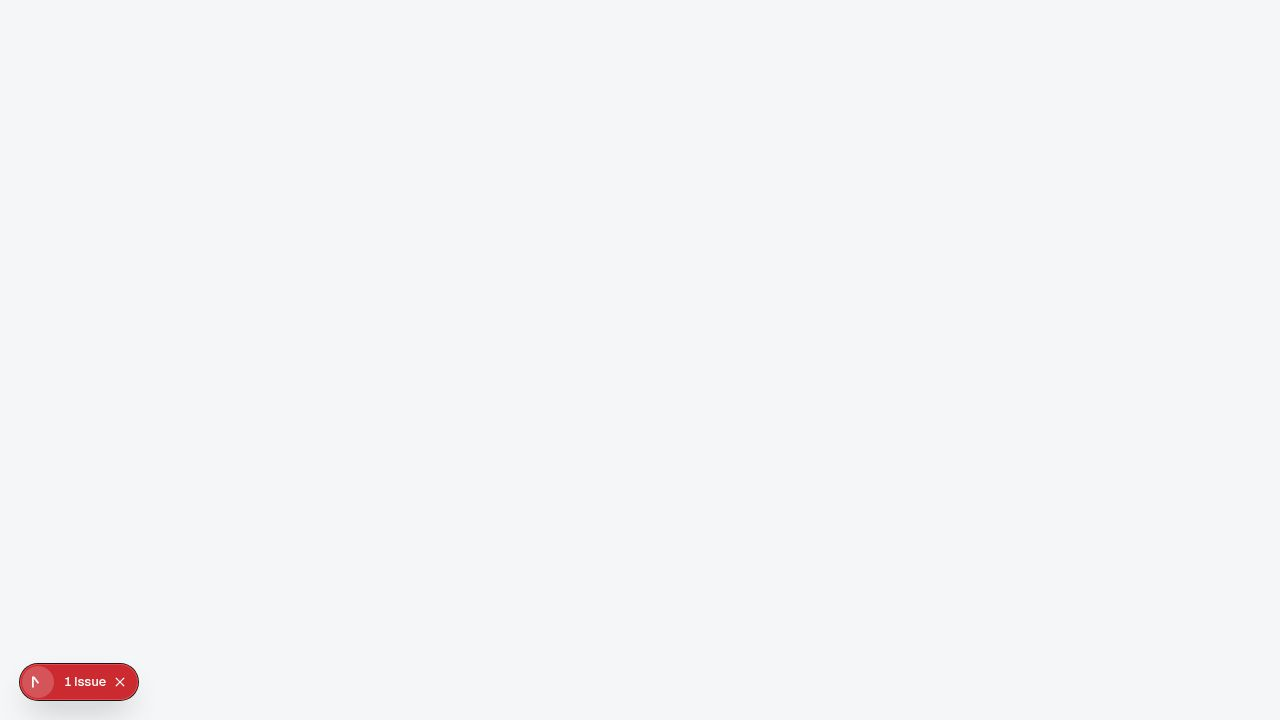
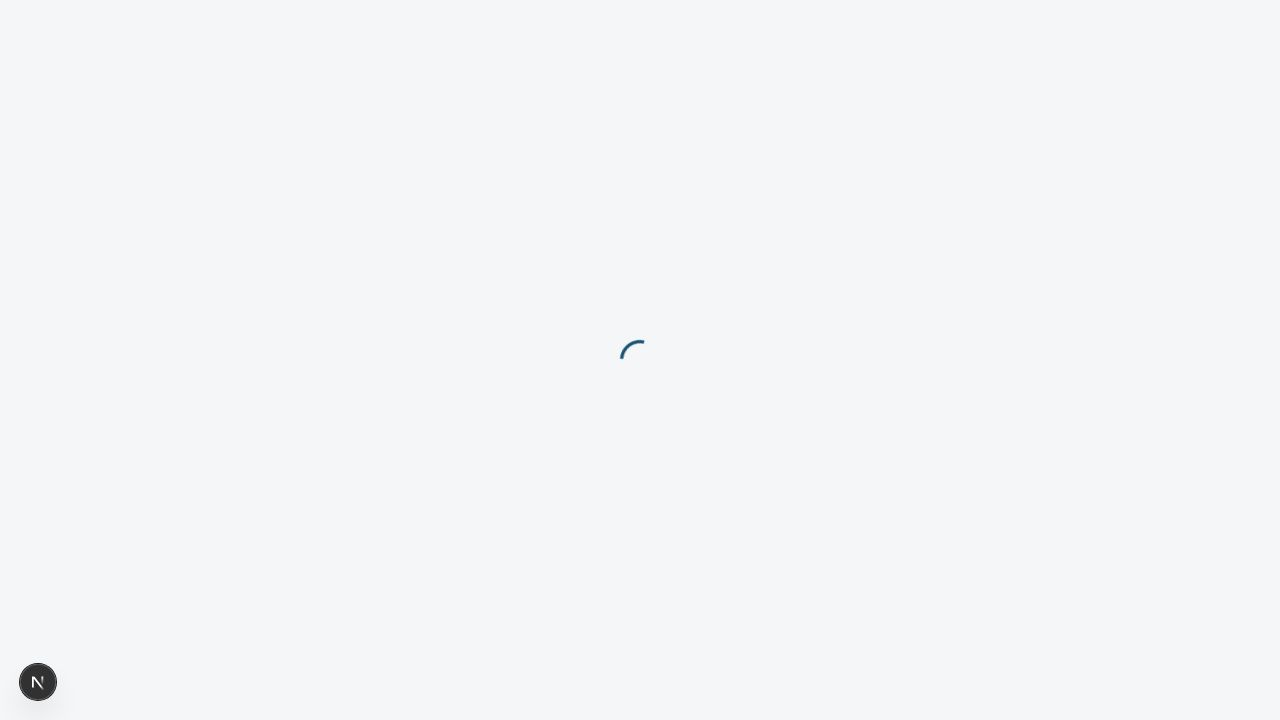
Saved progress at the end of the loop
Replit-Commit-Author: Agent
Replit-Commit-Session-Id: 0aeb3db0-3053-42a9-928f-4bdd60a7f220
Replit-Commit-Checkpoint-Type: full_checkpoint
Replit-Commit-Event-Id: 50ea3f49-f6a2-439a-b536-07edf646cee0
Replit-Commit-Screenshot-Url: https://storage.googleapis.com/screenshot-production-us-central1/58a67085-7a46-4982-b402-77585ca32109/0aeb3db0-3053-42a9-928f-4bdd60a7f220/sgM3feg
Replit-Helium-Checkpoint-Created: true

Changed region(s): [[0.0, 0.9167, 0.125, 1.0], [0.4688, 0.4583, 0.5, 0.4889]]

diff --git a/artifacts/smi-website/.next/static/webpack/webpack.5a02baf384d3e081.hot-update.js b/artifacts/smi-website/.next/static/webpack/webpack.5a02baf384d3e081.hot-update.js
@@ -1,0 +1,18 @@
+"use strict";
+/*
+ * ATTENTION: An "eval-source-map" devtool has been used.
+ * This devtool is neither made for production nor for readable output files.
+ * It uses "eval()" calls to create a separate source file with attached SourceMaps in the browser devtools.
+ * If you are trying to read the output file, select a different devtool (https://webpack.js.org/configuration/devtool/)
+ * or disable the default devtool with "devtool: false".
+ * If you are looking for production-ready output files, see mode: "production" (https://webpack.js.org/configuration/mode/).
+ */
+self["webpackHotUpdate_N_E"]("webpack",{},
+/******/ function(__webpack_require__) { // webpackRuntimeModules
+/******/ /* webpack/runtime/getFullHash */
+/******/ (() => {
+/******/ 	__webpack_require__.h = () => ("8d5f17e0bb51843c")
+/******/ })();
+/******/ 
+/******/ }
+);

diff --git a/artifacts/smi-website/.next/server/vendor-chunks/@mui+styled-engine@6.5.0_@emotion+react@11.14.0_@types+react@19.2.14_react@19.1.0__@emo_d64f72c3a73327987b796f77e0a0ea3c.js b/artifacts/smi-website/.next/server/vendor-chunks/@mui+styled-engine@6.5.0_@emotion+react@11.14.0_@types+react@19.2.14_react@19.1.0__@emo_d64f72c3a73327987b796f77e0a0ea3c.js
@@ -17,7 +17,7 @@ exports.modules = {
   \**********************************************************************************************************************************************************************************************************************/
 /***/ ((__unused_webpack_module, __webpack_exports__, __webpack_require__) => {
 
[2 lines of base64/hex data omitted]
 
 /***/ }),
 
@@ -27,7 +27,7 @@ eval("__webpack_require__.r(__webpack_exports__);\n/* harmony export */ __webpac
   \**************************************************************************************************************************************************************************************************************************************/
 /***/ ((__unused_webpack_module, __webpack_exports__, __webpack_require__) => {
 
[2 lines of base64/hex data omitted]
 
 /***/ }),
 

diff --git a/artifacts/smi-website/.next/server/webpack-runtime.js b/artifacts/smi-website/.next/server/webpack-runtime.js
@@ -125,7 +125,7 @@
 /******/ 	
 /******/ 	/* webpack/runtime/getFullHash */
 /******/ 	(() => {
-/******/ 		__webpack_require__.h = () => ("0b3e47fb1ab1e99e")
+/******/ 		__webpack_require__.h = () => ("b78ce3481203b892")
 /******/ 	})();
 /******/ 	
 /******/ 	/* webpack/runtime/hasOwnProperty shorthand */

diff --git a/artifacts/smi-website/.next/static/chunks/webpack.js b/artifacts/smi-website/.next/static/chunks/webpack.js
@@ -190,7 +190,7 @@
 /******/ 	
 /******/ 	/* webpack/runtime/getFullHash */
 /******/ 	(() => {
-/******/ 		__webpack_require__.h = () => ("4ee118fa647fbf14")
+/******/ 		__webpack_require__.h = () => ("8d5f17e0bb51843c")
 /******/ 	})();
 /******/ 	
 /******/ 	/* webpack/runtime/global */